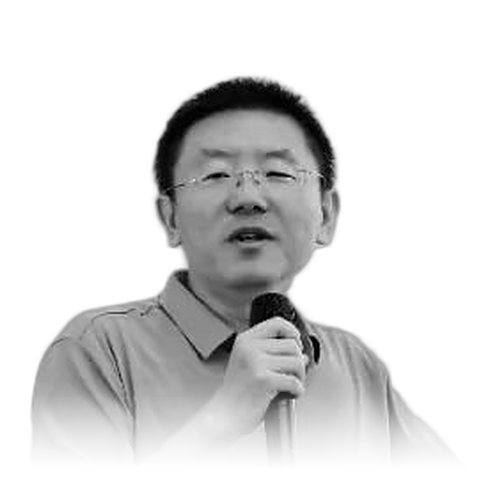
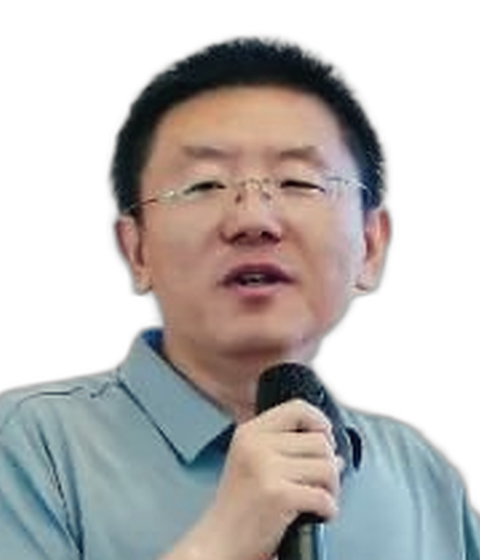
网站第三轮修改：禅创空间模块配图、彩色统一师资照、课堂现场通栏全景与圆形讲者、规整图片版式
Claude-Session: https://claude.ai/code/session_017er1wa7x7rwd9zdd4vrxbq

diff --git a/index.html b/index.html
@@ -90,7 +90,7 @@
 
       <div class="modules">
         <article class="module">
-          <img class="thumb" src="assets/img/mod-1.jpg" alt="湖岸独坐" loading="lazy">
+          <img class="thumb" src="assets/img/mod-1.jpg" alt="明亮空间中的静坐冥想" loading="lazy">
           <span class="idx">MODULE 01</span>
           <h3>觉醒</h3>
           <div class="en">Awakening</div>
@@ -103,7 +103,7 @@
           <p class="who"><b>彭凯平　钟年　徐井宏</b><br>2026 年 9 月 · 北京香山</p>
         </article>
         <article class="module">
-          <img class="thumb" src="assets/img/mod-2.jpg" alt="湖上同舟" loading="lazy">
+          <img class="thumb" src="assets/img/mod-2.jpg" alt="书房里的一场对话" loading="lazy">
           <span class="idx">MODULE 02</span>
           <h3>连接</h3>
           <div class="en">Connection</div>
@@ -116,20 +116,20 @@
           <p class="who"><b>彭凯平　樊富珉</b><br>2026 年 11 月 6—8 日 · 北京</p>
         </article>
         <article class="module">
-          <img class="thumb" src="assets/img/mod-3.jpg" alt="叠石平衡" loading="lazy">
+          <img class="thumb" src="assets/img/mod-3.jpg" alt="窗边的笔记本电脑与城市绿意" loading="lazy">
           <span class="idx">MODULE 03</span>
           <h3>重塑</h3>
           <div class="en">Resilience</div>
-          <p class="q">关注情绪调节、压力管理与心理韧性，为持续投入建立稳定的身心基础。</p>
+          <p class="q">在 AI 加速的时代，关注情绪调节、压力管理与心理韧性，为持续投入建立稳定的身心基础。</p>
           <ul>
             <li>情绪调节与压力管理</li>
-            <li>正念科学与专注力</li>
+            <li>正念科学与专注力：AI 时代的注意力管理</li>
             <li>高压下的心理韧性与身心续航</li>
           </ul>
           <p class="who"><b>陈德中</b><br>时间以官方通知为准</p>
         </article>
         <article class="module">
-          <img class="thumb" src="assets/img/mod-4.jpg" alt="登顶远望" loading="lazy">
+          <img class="thumb" src="assets/img/mod-4.jpg" alt="落地窗前眺望城市" loading="lazy">
           <span class="idx">MODULE 04</span>
           <h3>使命</h3>
           <div class="en">Purpose</div>
@@ -252,11 +252,11 @@
           <p class="focus">中华文化与生命觉醒 · 志向与意义</p>
         </article>
         <article class="person">
-          <div class="ph mono" aria-hidden="true"><span>陈</span></div>
+          <div class="ph"><img src="assets/img/fac-chen.png" alt="陈德中老师" loading="lazy"></div>
           <div class="role">「重塑」模块</div>
           <h3>陈德中</h3>
-          <p class="title">正念培训导师，获正念减压（MBSR）创始人乔·卡巴金博士认证。</p>
-          <p class="focus">正念科学 · 专注力 · 情绪调节 · 高压心理韧性</p>
+          <p class="title">加州健康研究院正念中心联合创始人。美国密歇根州立大学心理咨询硕士，持台湾心理师执照，麻省大学医学院正念中心培训合格的正念减压（MBSR）师资。1995 年开始修习正念禅修，长于东方禅法与西方心理学的整合应用，在台湾推动正念进入企业与医疗体系。</p>
+          <p class="focus">正念科学 · 专注力 · 情绪调节 · 企业正念培训</p>
         </article>
         <article class="person">
           <div class="ph"><img src="assets/img/fac-jia.png" alt="贾新超博士" loading="lazy"></div>
@@ -270,39 +270,50 @@
   </section>
 
   <!-- 课堂现场 -->
-  <section class="section section--dark" id="field">
+  <section class="section section--dark field" id="field">
     <div class="wrap">
       <p class="eyebrow">Field Notes</p>
       <div class="split split--wide">
         <h2 class="h-section">香山，第一模块「觉醒」</h2>
         <p class="lede">2026 年 9 月，首期学员在北京香山完成三天的学习与共创。一场关于观察与注意力的互动训练，让同学们发现：即使认真观察、反复思考，我们所看见的，仍可能只是现实的一部分。</p>
       </div>
+    </div>
 
-      <div class="collage">
-        <span class="bgword" aria-hidden="true">AWAKENING</span>
-        <figure class="c1">
-          <img src="assets/img/class-round.jpg" alt="香山课堂全景" loading="lazy">
-          <figcaption><span class="n">01</span><b>认知觉醒，始于对局限的觉察。</b>意识到自己尚有未知，才能为不同的视角保留空间。北京香山，2026 年 9 月。</figcaption>
-        </figure>
-        <figure class="c2">
-          <img src="assets/img/zhong-teaching.jpg" alt="钟年教授授课" loading="lazy">
-          <figcaption><span class="n">02</span><b>「亭者，停也。」</b>钟年教授借一座亭子，讲休息、调整与反思。</figcaption>
-        </figure>
-        <blockquote class="c-quote">超越自我，始于看见自己；持续成长，始于让自己的判断始终向新的可能敞开。</blockquote>
-        <figure class="c3">
-          <img src="assets/img/peng-teaching.jpg" alt="彭凯平教授授课" loading="lazy">
-          <figcaption><span class="n">03</span><b>对自己的思考，再作一次思考。</b>彭凯平教授讲授元认知训练。</figcaption>
-        </figure>
-        <figure class="c4">
-          <img src="assets/img/workshop.jpg" alt="团体工作坊现场" loading="lazy">
-          <figcaption><span class="n">04</span><b>在互动中认识自己，在体验中理解他人。</b>团体工作坊现场。</figcaption>
-        </figure>
+    <figure class="panorama">
+      <img src="assets/img/class-round.jpg" alt="香山课堂全景" loading="lazy">
+      <figcaption class="wrap"><b>认知觉醒，始于对局限的觉察。</b>意识到自己尚有未知，才能为不同的视角保留空间。北京香山，2026 年 9 月。</figcaption>
+    </figure>
+
+    <div class="wrap">
+      <div class="lecturers">
+        <article class="lecturer">
+          <img src="assets/img/round-peng.jpg" alt="彭凯平教授授课" loading="lazy">
+          <span class="lec-idx">LECTURE 01</span>
+          <h3>彭凯平</h3>
+          <p class="lec-title">认知觉醒 超越自我<br>从赢者的诅咒到元认知的升华</p>
+          <blockquote>你们是能改变别人命运的人，影响那些有影响的人，成就那些有成就的人。</blockquote>
+        </article>
+        <article class="lecturer">
+          <img src="assets/img/round-zhong.jpg" alt="钟年教授授课" loading="lazy">
+          <span class="lec-idx">LECTURE 02</span>
+          <h3>钟年</h3>
+          <p class="lec-title">中华文化与生命觉醒<br>为人生留一座亭子</p>
+          <blockquote>向上生长，向下生根，人生不必只活成一个方向。</blockquote>
+        </article>
+        <article class="lecturer">
+          <img src="assets/img/round-xu.jpg" alt="徐井宏教授授课" loading="lazy">
+          <span class="lec-idx">LECTURE 03</span>
+          <h3>徐井宏</h3>
+          <p class="lec-title">AI 时代 心力制胜<br>把握本质、遵循常识、聚焦关键</p>
+          <blockquote>活在当下，做你自己，安于良知。更靠谱，更智慧，更幸福！</blockquote>
+        </article>
       </div>
 
-      <div class="quote-band">
-        <blockquote>你们是能改变别人命运的人，影响那些有影响的人，成就那些有成就的人。<cite>彭凯平 · 开学寄语</cite></blockquote>
-        <blockquote>向上生长，向下生根，人生不必只活成一个方向。<cite>钟年 · 中华文化与生命觉醒</cite></blockquote>
-        <blockquote>活在当下，做你自己，安于良知。更靠谱，更智慧，更幸福！<cite>徐井宏 · AI 时代 心力制胜</cite></blockquote>
+      <div class="moments">
+        <p class="moments-label">课堂片段</p>
+        <figure><img src="assets/img/workshop.jpg" alt="团体工作坊现场" loading="lazy"><figcaption>团体工作坊：在互动中认识自己</figcaption></figure>
+        <figure><img src="assets/img/class-wide.jpg" alt="分组研讨" loading="lazy"><figcaption>研讨：把认知带回经营问题</figcaption></figure>
+        <figure><img src="assets/img/xiangshan-class.jpg" alt="香山课堂" loading="lazy"><figcaption>三天共修：从相逢到彼此信任</figcaption></figure>
       </div>
     </div>
   </section>
@@ -335,11 +346,13 @@
         <p>分享《积极心理学：企业家不可忽视的「隐性竞争力」》，把习得性乐观、PERMA 幸福五支柱与品格优势等框架，落到市场波动中的决策韧性、长期高压下的情绪管理、团队优势识别与创始人的长期心力平衡四类现实课题上。</p>
         <p class="muted">当身份与头衔暂时退到身后，留下的是彼此陪伴、相互鼓励和一起抵达的过程。</p>
       </div>
-      <div class="stack">
-        <figure class="s1"><img src="assets/img/run2.jpg" alt="北训营早餐跑" loading="lazy"></figure>
-        <figure class="s2"><img src="assets/img/run1.jpg" alt="晨跑途中" loading="lazy"></figure>
-        <figure class="s3"><img src="assets/img/ckgsb-talk.jpg" alt="积极心理学专题分享" loading="lazy">
+      <div class="plate">
+        <figure class="p-main"><img src="assets/img/run2.jpg" alt="北训营早餐跑" loading="lazy">
           <figcaption><b>林间轻奔跑，心力启增长。</b>北京海淀，2026 年 8 月 8 日。</figcaption></figure>
+        <div class="p-thumbs">
+          <figure><img src="assets/img/run1.jpg" alt="晨跑途中" loading="lazy"><figcaption>5 公里森氧晨跑</figcaption></figure>
+          <figure><img src="assets/img/ckgsb-talk.jpg" alt="积极心理学专题分享" loading="lazy"><figcaption>积极心理学专题分享</figcaption></figure>
+        </div>
       </div>
     </div>
   </section>

diff --git a/assets/css/site.css b/assets/css/site.css
@@ -276,7 +276,7 @@ figcaption b { color: var(--ink); font-weight: 600; }
 .module li { padding: 6px 0; border-top: 1px solid var(--rule); }
 .module .who { margin-top: auto; font-size: 13px; color: var(--ink-3); }
 .module .who b { color: var(--ink); font-weight: 600; }
-.module .thumb { aspect-ratio: 4/5; object-fit: cover; width: 100%; margin-bottom: 20px; }
+.module .thumb { aspect-ratio: 4/3; object-fit: cover; width: 100%; margin-bottom: 20px; }
 
 .loop { margin-top: 64px; display: grid; grid-template-columns: 340px 1fr; gap: 48px; align-items: center; }
 .loop svg { width: 100%; height: auto; }
@@ -292,13 +292,13 @@ figcaption b { color: var(--ink); font-weight: 600; }
 /* ---------- 师资 ---------- */
 .faculty { display: grid; grid-template-columns: repeat(3, 1fr); gap: 48px 40px; margin-top: 56px; }
 .person .ph {
-  aspect-ratio: 24/25;
-  background: #e9e5dc;
+  aspect-ratio: 6/7;
+  background: #e7e3db;
   overflow: hidden;
   position: relative;
   margin-bottom: 18px;
 }
-.person .ph img { width: 100%; height: 100%; object-fit: contain; object-position: center bottom; transition: transform .6s ease; }
+.person .ph img { width: 100%; height: 100%; object-fit: cover; object-position: center top; transition: transform .6s ease; }
 .person:hover .ph img { transform: scale(1.03); }
 .person .ph::after { content: ""; position: absolute; left: 0; bottom: 0; width: 48px; height: 6px; background: var(--yellow); }
 .person .ph.mono {
@@ -437,91 +437,62 @@ figcaption b { color: var(--ink); font-weight: 600; }
   .loop svg { max-width: 320px; }
 }
 
-/* ---------- 实景陈列：拼贴 ---------- */
-.collage {
-  position: relative;
-  display: grid;
-  grid-template-columns: repeat(12, 1fr);
-  grid-auto-rows: 56px;
-  column-gap: 24px;
-  margin-top: 80px;
-}
-.collage .bgword {
-  position: absolute;
-  left: -0.04em;
-  top: 46%;
-  font-family: var(--serif);
-  font-weight: 700;
-  font-size: clamp(80px, 15vw, 220px);
-  letter-spacing: .04em;
-  line-height: 1;
-  color: transparent;
-  -webkit-text-stroke: 1px rgba(255,255,255,.12);
-  white-space: nowrap;
-  pointer-events: none;
-  z-index: 0;
-}
-.collage figure { position: relative; z-index: 1; display: flex; flex-direction: column; min-height: 0; }
-.collage figure img { flex: 1; min-height: 0; width: 100%; object-fit: cover; }
-.collage figcaption { flex: none; }
-.collage .n { font-family: var(--serif); color: var(--yellow); margin-right: 10px; font-weight: 700; }
-.c1 { grid-column: 1 / 9; grid-row: 1 / 9; }
-.c1 img { object-position: 50% 40%; }
-.c2 { grid-column: 9 / 13; grid-row: 5 / 14; }
-.c2 img { object-position: 42% 40%; }
-.c2::before {
-  content: "";
-  position: absolute;
-  z-index: -1;
-  top: -28px; right: -28px;
-  width: 62%; height: 46%;
-  background: var(--yellow);
-}
-.c-quote {
-  grid-column: 2 / 8; grid-row: 10 / 13;
-  align-self: center;
-  margin: 0;
-  font-family: var(--serif);
-  font-size: clamp(20px, 2vw, 26px);
-  line-height: 1.7;
-  color: #f2f0ea;
-  border-left: 1px solid #4a4740;
-  padding-left: 28px;
-  position: relative;
-  z-index: 1;
-}
-.c3 { grid-column: 1 / 5; grid-row: 14 / 23; }
-.c3 img { object-position: 48% 30%; }
-.c4 { grid-column: 5 / 13; grid-row: 16 / 24; }
-.c4::before {
-  content: "";
-  position: absolute;
-  z-index: -1;
-  left: -24px; bottom: 56px;
-  width: 1px; height: 120%;
-  background: linear-gradient(#ffcd00, rgba(255,205,0,0));
-  transform: scaleY(-1);
-}
 
-/* ---------- 合作场域：叠放 ---------- */
-.stack { position: relative; display: grid; grid-template-columns: repeat(6, 1fr); grid-auto-rows: 48px; }
-.stack figure { position: relative; display: flex; flex-direction: column; }
-.stack img { width: 100%; height: 100%; object-fit: cover; flex: 1; min-height: 0; }
-.stack .s1 { grid-column: 1 / 6; grid-row: 1 / 7; }
-.stack .s2 { grid-column: 4 / 7; grid-row: 5 / 9; z-index: 2; border: 8px solid var(--paper-2); }
-.stack .s3 { grid-column: 1 / 4; grid-row: 8 / 13; z-index: 1; }
-.stack .s3::before { content: ""; position: absolute; left: -16px; top: -16px; width: 40%; height: 40%; background: var(--yellow); z-index: -1; }
+/* ---------- 课堂现场：通栏全景 + 讲者 + 片段 ---------- */
+.panorama { margin: 64px 0 0; }
+.panorama img { width: 100%; height: clamp(320px, 64vh, 720px); object-fit: cover; object-position: 50% 45%; }
+.panorama figcaption { border-top: 0; margin-top: 0; padding-top: 14px; }
+.lecturers {
+  display: grid;
+  grid-template-columns: repeat(3, 1fr);
+  border-top: 1px solid #2c2c2c;
+  margin-top: 72px;
+}
+.lecturer { padding: 40px 32px 8px; text-align: center; border-right: 1px solid #2c2c2c; }
+.lecturer:first-child { padding-left: 0; }
+.lecturer:last-child { border-right: 0; padding-right: 0; }
+.lecturer img {
+  width: 148px; height: 148px;
+  border-radius: 50%;
+  object-fit: cover;
+  margin: 0 auto 24px;
+  box-shadow: 0 0 0 1px #3a3833, 0 0 0 8px var(--night), 0 0 0 9px var(--yellow);
+}
+.lec-idx { font-size: 11px; letter-spacing: .22em; color: #a9a59b; font-weight: 600; }
+.lecturer h3 { font-family: var(--serif); font-size: 26px; margin: 6px 0 8px; letter-spacing: .1em; }
+.lec-title { font-size: 14px; color: #cfcbc1; line-height: 1.7; }
+.lecturer blockquote {
+  margin: 20px 0 0;
+  padding-top: 20px;
+  border-top: 1px solid #2c2c2c;
+  font-family: var(--serif);
+  font-size: 17px;
+  line-height: 1.8;
+  color: #f2f0ea;
+}
+.moments {
+  display: grid;
+  grid-template-columns: 160px repeat(3, 1fr);
+  gap: 24px;
+  margin-top: 72px;
+  padding-top: 24px;
+  border-top: 1px solid #2c2c2c;
+  align-items: start;
+}
+.moments-label { font-family: var(--serif); font-size: 18px; margin: 0; color: #f2f0ea; }
+.moments img { width: 100%; aspect-ratio: 3/2; object-fit: cover; filter: saturate(.85); }
+.moments figcaption { border-top: 0; margin-top: 8px; padding-top: 0; }
+
+/* ---------- 合作场域：规整版式 ---------- */
+.plate img { width: 100%; object-fit: cover; }
+.p-main img { aspect-ratio: 3/2; }
+.p-thumbs { display: grid; grid-template-columns: 1fr 1fr; gap: 16px; margin-top: 16px; }
+.p-thumbs img { aspect-ratio: 3/2; }
 
 @media (max-width: 760px) {
-  .collage { grid-auto-rows: 40px; column-gap: 12px; margin-top: 48px; }
-  .collage .bgword { top: 30%; font-size: 72px; }
-  .c1 { grid-column: 1 / 13; grid-row: 1 / 7; }
-  .c2 { grid-column: 4 / 13; grid-row: 6 / 15; }
-  .c2::before { top: -14px; right: -10px; }
-  .c-quote { grid-column: 1 / 13; grid-row: 15 / 19; font-size: 18px; padding-left: 16px; }
-  .c3 { grid-column: 1 / 9; grid-row: 19 / 28; }
-  .c4 { grid-column: 3 / 13; grid-row: 28 / 35; }
-  .c4::before { display: none; }
-  .stack { grid-auto-rows: 36px; margin-top: 24px; }
+  .lecturers { grid-template-columns: 1fr; }
+  .lecturer, .lecturer:first-child, .lecturer:last-child { padding: 32px 0; border-right: 0; border-bottom: 1px solid #2c2c2c; }
+  .moments { grid-template-columns: 1fr 1fr; }
+  .moments-label { grid-column: 1 / 3; }
   .brand-logo { height: 34px; }
 }
